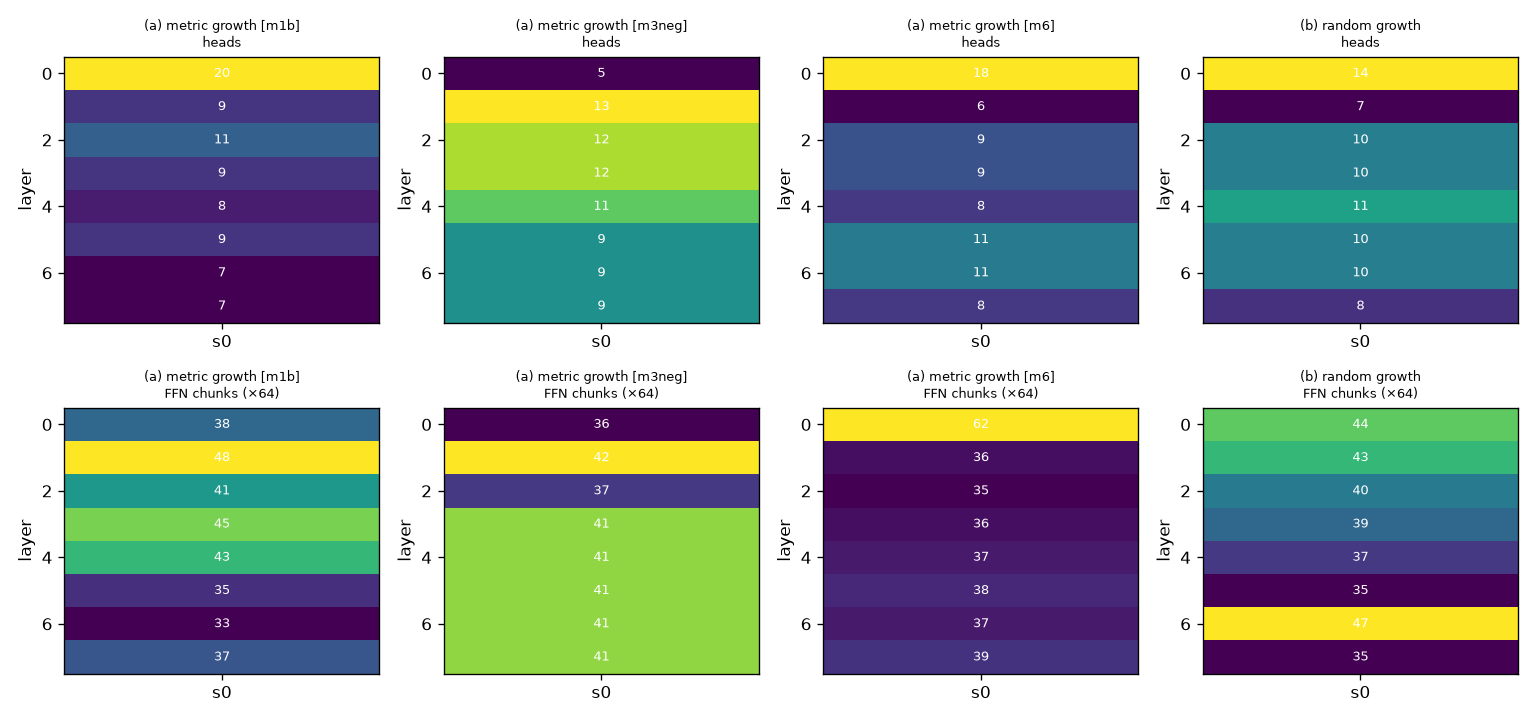
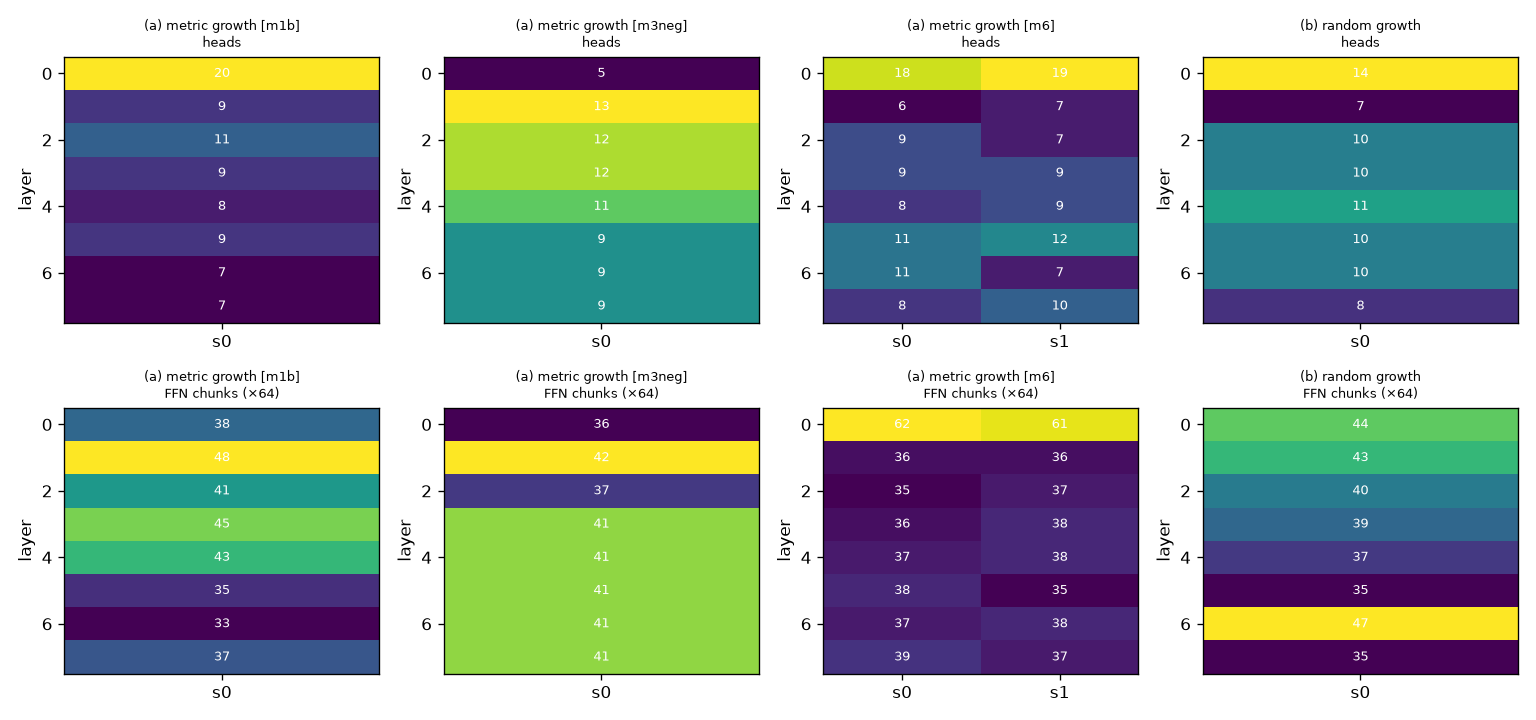
Added after report: extra seeds (S M6/uniform s4-5, M seed 1)

diff --git a/results/stage2_tables.md b/results/stage2_tables.md
@@ -4,11 +4,11 @@
 |---|---|---|---|---|---|---|---|
 | (a) metric growth [m1b] | 1 | 3.9991 ± nan | 3.9991 | 1.308e+17 | 38 | 79778 | [20, 9, 11, 9, 8, 9, 7, 7] / [38, 48, 41, 45, 43, 35, 33, 37]×64 |
 | (a) metric growth [m3neg] | 1 | 4.0025 ± nan | 4.0025 | 1.333e+17 | 267 | 95995 | [5, 13, 12, 12, 11, 9, 9, 9] / [36, 42, 37, 41, 41, 41, 41, 41]×64 |
-| (a) metric growth [m6] | 1 | 3.9986 ± nan | 3.9986 | 1.335e+17 | 128 | 77718 | [18, 6, 9, 9, 8, 11, 11, 8] / [62, 36, 35, 36, 37, 38, 37, 39]×64 |
+| (a) metric growth [m6] | 2 | 3.9935 ± 0.0071 | 3.9986, 3.9885 | 1.335e+17 | 129 | 77586 | [18, 6, 9, 9, 8, 11, 11, 8] / [62, 36, 35, 36, 37, 38, 37, 39]×64 |
 | (b) random growth | 1 | 3.9920 ± nan | 3.9920 | 1.319e+17 | 0 | 81209 | [14, 7, 10, 10, 11, 10, 10, 8] / [44, 43, 40, 39, 37, 35, 47, 35]×64 |
-| (c) uniform growth | 1 | 3.9853 ± nan | 3.9853 | 1.319e+17 | 0 | 81299 | [10, 10, 10, 10, 10, 10, 10, 10] / [40, 40, 40, 40, 40, 40, 40, 40]×64 |
-| (d) scratch, same tokens | 1 | 3.9767 ± nan | 3.9767 | 1.476e+17 | 0 | 115599 | [10, 10, 10, 10, 10, 10, 10, 10] / [40, 40, 40, 40, 40, 40, 40, 40]×64 |
-| (e) scratch, matched FLOPs | 1 | 4.0359 ± nan | 4.0359 | 1.318e+17 | 0 | 116231 | [10, 10, 10, 10, 10, 10, 10, 10] / [40, 40, 40, 40, 40, 40, 40, 40]×64 |
+| (c) uniform growth | 2 | 3.9847 ± 0.0010 | 3.9853, 3.9840 | 1.319e+17 | 0 | 81034 | [10, 10, 10, 10, 10, 10, 10, 10] / [40, 40, 40, 40, 40, 40, 40, 40]×64 |
+| (d) scratch, same tokens | 2 | 3.9754 ± 0.0019 | 3.9767, 3.9741 | 1.476e+17 | 0 | 114786 | [10, 10, 10, 10, 10, 10, 10, 10] / [40, 40, 40, 40, 40, 40, 40, 40]×64 |
+| (e) scratch, matched FLOPs | 2 | 4.0304 ± 0.0077 | 4.0359, 4.0250 | 1.318e+17 | 0 | 114602 | [10, 10, 10, 10, 10, 10, 10, 10] / [40, 40, 40, 40, 40, 40, 40, 40]×64 |
 
 Paired differences (same seed = same data order; negative = first arm better):
 
@@ -23,12 +23,12 @@ Paired differences (same seed = same data order; negative = first arm better):
 | (a) metric growth [m3neg] − (d) scratch, same tokens | 1 | +0.0257 ± nan | nan | +0.0257 |
 | (a) metric growth [m3neg] − (e) scratch, matched FLOPs | 1 | -0.0334 ± nan | nan | -0.0334 |
 | (a) metric growth [m6] − (b) random growth | 1 | +0.0066 ± nan | nan | +0.0066 |
-| (a) metric growth [m6] − (c) uniform growth | 1 | +0.0132 ± nan | nan | +0.0132 |
-| (a) metric growth [m6] − (d) scratch, same tokens | 1 | +0.0218 ± nan | nan | +0.0218 |
-| (a) metric growth [m6] − (e) scratch, matched FLOPs | 1 | -0.0373 ± nan | nan | -0.0373 |
+| (a) metric growth [m6] − (c) uniform growth | 2 | +0.0089 ± 0.0061 | 0.29 | +0.0132, +0.0046 |
+| (a) metric growth [m6] − (d) scratch, same tokens | 2 | +0.0181 ± 0.0052 | 0.13 | +0.0218, +0.0144 |
+| (a) metric growth [m6] − (e) scratch, matched FLOPs | 2 | -0.0369 ± 0.0006 | 0.01 | -0.0373, -0.0365 |
 | (b) random growth − (c) uniform growth | 1 | +0.0067 ± nan | nan | +0.0067 |
-| (c) uniform growth − (d) scratch, same tokens | 1 | +0.0086 ± nan | nan | +0.0086 |
-| (c) uniform growth − (e) scratch, matched FLOPs | 1 | -0.0505 ± nan | nan | -0.0505 |
+| (c) uniform growth − (d) scratch, same tokens | 2 | +0.0092 ± 0.0009 | 0.04 | +0.0086, +0.0099 |
+| (c) uniform growth − (e) scratch, matched FLOPs | 2 | -0.0458 ± 0.0067 | 0.07 | -0.0505, -0.0410 |
 
 ### Scale S
 
@@ -36,9 +36,9 @@ Paired differences (same seed = same data order; negative = first arm better):
 |---|---|---|---|---|---|---|---|
 | (a) metric growth [m1b] | 3 | 4.2122 ± 0.0126 | 4.2004, 4.2255, 4.2107 | 4.761e+16 | 24 | 163214 | [9, 9, 5, 5, 5, 3] / [22, 29, 26, 23, 24, 20]×64 |
 | (a) metric growth [m3neg] | 3 | 4.1967 ± 0.0097 | 4.1905, 4.2079, 4.1916 | 4.847e+16 | 107 | 156778 | [3, 7, 7, 7, 5, 7] / [22, 22, 24, 23, 27, 26]×64 |
-| (a) metric growth [m6] | 4 | 4.1945 ± 0.0071 | 4.1842, 4.1994, 4.1951, 4.1994 | 4.860e+16 | 61 | 159552 | [10, 4, 6, 5, 7, 4] / [41, 22, 19, 21, 21, 20]×64 |
+| (a) metric growth [m6] | 6 | 4.1966 ± 0.0065 | 4.1842, 4.1994, 4.1951, 4.1994, 4.2024, 4.1991 | 4.860e+16 | 57 | 176178 | [10, 4, 6, 5, 7, 4] / [41, 22, 19, 21, 21, 20]×64 |
 | (b) random growth | 3 | 4.2073 ± 0.0134 | 4.2016, 4.2226, 4.1977 | 4.795e+16 | 0 | 131250 | [5, 7, 6, 8, 3, 7] / [34, 23, 25, 21, 23, 18]×64 |
-| (c) uniform growth | 4 | 4.2039 ± 0.0069 | 4.2020, 4.2099, 4.1950, 4.2088 | 4.795e+16 | 0 | 143277 | [6, 6, 6, 6, 6, 6] / [24, 24, 24, 24, 24, 24]×64 |
+| (c) uniform growth | 6 | 4.2012 ± 0.0071 | 4.2020, 4.2099, 4.1950, 4.2088, 4.1924, 4.1991 | 4.795e+16 | 0 | 174680 | [6, 6, 6, 6, 6, 6] / [24, 24, 24, 24, 24, 24]×64 |
 | (d) scratch, same tokens | 3 | 4.1893 ± 0.0276 | 4.1764, 4.1706, 4.2210 | 5.198e+16 | 0 | 216091 | [6, 6, 6, 6, 6, 6] / [24, 24, 24, 24, 24, 24]×64 |
 | (e) scratch, matched FLOPs | 2 | 4.2570 ± 0.0004 | 4.2567, 4.2573 | 4.795e+16 | 0 | 189498 | [6, 6, 6, 6, 6, 6] / [24, 24, 24, 24, 24, 24]×64 |
 | (e') scratch, matched FLOPs, warmup 101 steps | 4 | 4.1914 ± 0.0071 | 4.1962, 4.1987, 4.1849, 4.1858 | 4.795e+16 | 0 | 226470 | [6, 6, 6, 6, 6, 6] / [24, 24, 24, 24, 24, 24]×64 |
@@ -61,7 +61,7 @@ Paired differences (same seed = same data order; negative = first arm better):
 | (a) metric growth [m3neg] − (e') scratch, matched FLOPs, warmup 101 steps | 3 | +0.0034 ± 0.0080 | 0.53 | -0.0057, +0.0092, +0.0068 |
 | (a) metric growth [m3neg] − (f) OpenELM-style widths | 3 | -0.0244 ± 0.0318 | 0.31 | -0.0112, -0.0014, -0.0607 |
 | (a) metric growth [m6] − (b) random growth | 3 | -0.0144 ± 0.0106 | 0.14 | -0.0173, -0.0233, -0.0026 |
-| (a) metric growth [m6] − (c) uniform growth | 4 | -0.0094 ± 0.0073 | 0.08 | -0.0177, -0.0106, +0.0001, -0.0094 |
+| (a) metric growth [m6] − (c) uniform growth | 6 | -0.0046 ± 0.0099 | 0.31 | -0.0177, -0.0106, +0.0001, -0.0094, +0.0100, +0.0000 |
 | (a) metric growth [m6] − (d) scratch, same tokens | 3 | +0.0036 ± 0.0276 | 0.84 | +0.0078, +0.0288, -0.0259 |
 | (a) metric growth [m6] − (e) scratch, matched FLOPs | 2 | -0.0652 ± 0.0103 | 0.07 | -0.0725, -0.0579 |
 | (a) metric growth [m6] − (e') scratch, matched FLOPs, warmup 101 steps | 4 | +0.0031 ± 0.0115 | 0.62 | -0.0120, +0.0007, +0.0103, +0.0135 |

diff --git a/REPORT.md b/REPORT.md
@@ -7,6 +7,7 @@
 - **Metrics:** no metric predicted the single-unit growth oracle. Pooled Spearman was −0.19 (M1b) to −0.64 (M3, significantly *anti*-correlated), and the oracle itself is only weakly reliable (seed-to-seed ρ 0.20 / 0.64). **Drop M1, M1b, M2, M5, M7 as location selectors.** Keep only **M6** and the **"−M3 / late-layer" allocation** as hypotheses.
 - **Metric vs random/uniform growth: not beyond seed noise.** At S, M6 growth beat uniform growth by 0.009 ± 0.007 nats (4 seeds, p = 0.08) and random growth by 0.014 (p = 0.14). M1b, the formally top-ranked metric, was 0.010 *worse* than uniform. At M (1 seed, reduced budget), every metric arm was 0.013–0.017 worse than uniform growth.
 - **Growth itself doesn't pay at S:** uniform growth loses to a from-scratch target-size model trained at matched FLOPs (+0.0125 ± 0.007, 4 seeds, p = 0.04). At S, width growth saves only 8% of FLOPs because the tied LM head dominates. At M (1 seed, undertrained) growth beat the matched-FLOPs baseline by 0.05. Promising but unconfirmed.
+- **Update after extra seeds (see §8):** with 6 seeds, M6 vs uniform at S shrinks to −0.005 ± 0.010 (p = 0.31), i.e. noise. At M with 2 seeds, uniform growth beats the matched-FLOPs baseline in both seeds (−0.046 ± 0.007, p = 0.07).
 - Methodology warning: the first matched-FLOPs baseline was 0.06 worse purely because of its warmup, at an edge-of-stability LR. Comparisons of this size need a more stable LR and ≥4–5 seeds.
 
 ## 2. What was built, and test results
@@ -178,3 +179,29 @@ Full log with alternatives: [DECISIONS.md](DECISIONS.md). Timeline and incidents
 3. **Settle Claim A before scaling up.** At S, growth does not beat a FLOP-matched scratch model (uniform growth is 0.0125 worse than (e′), 4/4 seeds). At M it did (0.05, 1 seed): rerun M with ≥3 seeds and the full 800M tokens first. Part of the reason: at S the tied LM head is ~2/3 of the FLOPs, so growing only width saves just 8%. At GPT-2 scale (124M/350M) the non-embedding share is larger, so the potential saving is too. Re-test there with a compact (gathered) implementation so wall-clock savings are real.
 4. **Use a more stable LR** (or LR re-warmup for new units) in the next round, e.g. 2e-3–3e-3 at S. At 4e-3, seed noise for full-width models (sd 0.028) swamps the effects we want to measure. Use ≥4–5 seeds for any comparison under 0.01 nats.
 5. **Separate "when" from "where".** Rerun the metric arms with the head/FFN split fixed per event (as in uniform/random), so the metric chooses only layers. Then The two better-than-random policies made very different choices: M6 piles heads and FFN into layer 0, while −M3 adds heads to layers 1–5 and FFN to the top layers. They also differed in *timing* (heads early). So "any consistent non-uniform allocation, or early heads, beats random" is as plausible as "the metric matters". A fixed-allocation control (e.g. the final −M3 or M6 allocation, trained from scratch) would separate "growth path" from "final shape".
+
+## 8. Added after report (extra seeds, 07:28–08:46 EDT)
+
+After the report was committed I used the remaining time for extra seeds on the closest or most decision-relevant comparisons: S seeds 4–5 for M6 and uniform growth, and M seed 1 for scratch, uniform growth, matched-FLOPs scratch (e) and M6. All finished; tables and plots in `results/` have been regenerated.
+
+**S, M6 vs uniform growth (6 seeds):** M6 4.1966 ± 0.0065, uniform 4.2012 ± 0.0071. Paired Δ = **−0.0046 ± 0.0099, p = 0.31** (per seed: −0.018, −0.011, 0.000, −0.009, +0.010, 0.000). The 4-seed result (−0.009, p = 0.08) does not hold up: **M6 is not distinguishable from uniform growth.**
+
+**M (now 2 seeds for these arms):**
+
+| Arm | seed 0 | seed 1 | mean ± sd |
+| --- | --- | --- | --- |
+| (d) scratch, same tokens | 3.9767 | 3.9741 | 3.9754 ± 0.0019 |
+| (c) uniform growth | 3.9853 | 3.9840 | 3.9847 ± 0.0010 |
+| (a2) M6 growth | 3.9986 | 3.9885 | 3.9935 ± 0.0071 |
+| (e) scratch, matched FLOPs (91-step warmup) | 4.0359 | 4.0250 | 4.0304 ± 0.0077 |
+
+| Paired comparison (M, 2 seeds) | Δ mean ± sd | p |
+| --- | --- | --- |
+| M6 − uniform growth | +0.0089 ± 0.0061 | 0.29 |
+| uniform growth − (e) matched-FLOPs scratch (**Claim A**) | **−0.0458 ± 0.0067** | 0.07 |
+| M6 − (e) matched-FLOPs scratch | −0.0369 ± 0.0006 | 0.01 |
+| uniform growth − (d) scratch, same tokens | +0.0092 ± 0.0009 | 0.04 |
+
+**Updated reading.**
+- **Metric-driven growth:** no evidence that any metric beats uniform growth at either scale. At S it is a wash over 6 seeds; at M, M6 is slightly worse in both seeds.
+- **Claim A:** scale-dependent. At S, growth loses to a FLOP-matched from-scratch model (4 seeds). At M it wins by ~0.046 nats in both seeds, while costing ~0.009 vs a from-scratch model that uses 12% more FLOPs. The M runs are short (300M tokens, ~8 tokens/param), so this may be a short-training effect. Confirming it at the full 800M-token M budget and at 124M is the most useful next experiment.

diff --git a/STATUS.md b/STATUS.md
@@ -1,6 +1,6 @@
 # STATUS
 
-**Current state (07:28 EDT):** REPORT.md written and committed. Now running post-report extra seeds (tmux `extra`, scripts/jobs_extra.tsv): M seed 1 for scratch, uniform, e, M6; S seeds 4–5 for M6 and uniform. Launch cutoff 09:14. Checkpoints/logs remain server-side in `~/organic-growth/runs/` (not synced); small results are in `results/`.
+**Current state (08:50 EDT): DONE.** REPORT.md (incl. §8 "Added after report") committed. No GPU jobs running on server1. Checkpoints/logs remain server-side in `~/organic-growth/runs/` (not synced); small results are in `results/`.
 
 **Start time:** 2026-09-25 00:44 EDT (04:44 UTC). **Hard deadline:** 2026-09-25 10:44 EDT.
 
@@ -41,3 +41,4 @@
 - 06:35 M results so far (1 seed): scratch 3.9767, uniform 3.9853, M1b 3.9991, M6 3.9986. Running: M random, M −M3, M (e), S seed 3 (M6, uniform, e′).
 - 07:20 Queue empty: M arms (7) and S seed-3 runs done. Isolated throughput benchmark (idle GPU): S scratch 0.99M tok/s, S growth (2× prealloc) 0.79M, M scratch 0.51M, M growth 0.38M.
 - 07:25 Final analysis (results/stage2_tables.md), plots, REPORT.md committed. GPU idle.
+- 08:46 Post-report extra seeds done (S seeds 4–5 for M6/uniform; M seed 1 for d, c, e, M6). REPORT §8 appended; TL;DR carries a pointer to the update.
